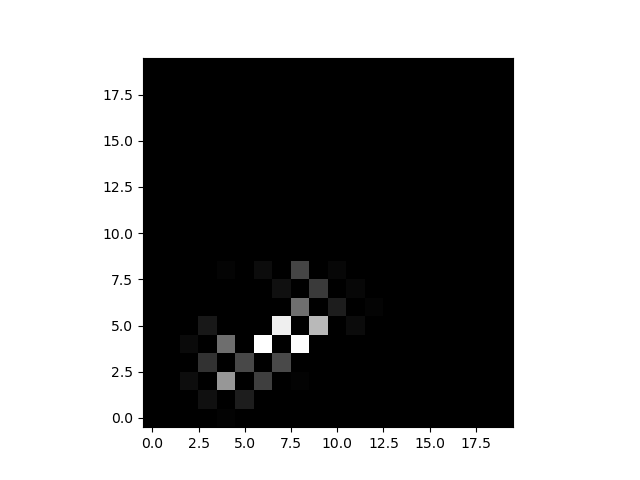
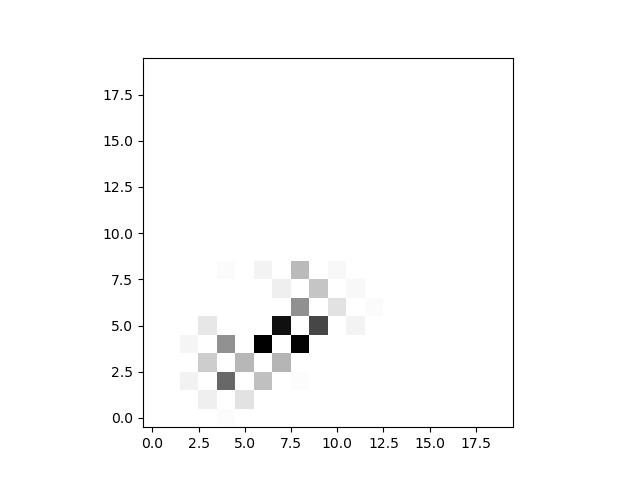
Code completed. Graphs Remaining

diff --git a/Q3/grid.py b/Q3/grid.py
@@ -59,7 +59,7 @@ def show_belief(grid,belief,t=0):
     log_likelihood=np.zeros((grid.breadth,grid.length))
     for pos,prob in belief.items():
         x,y=pos
-        log_likelihood[y,x]=(prob)*255
+        log_likelihood[y,x]=(1-prob)*255
 
     ax.imshow(log_likelihood)  
 

diff --git a/Q3/HMM.py b/Q3/HMM.py
@@ -1,4 +1,3 @@
-from hashlib import shake_128
 import numpy as np
 from Robot import Robot,DIR_VECS
 from grid import Grid,visualise,show_belief
